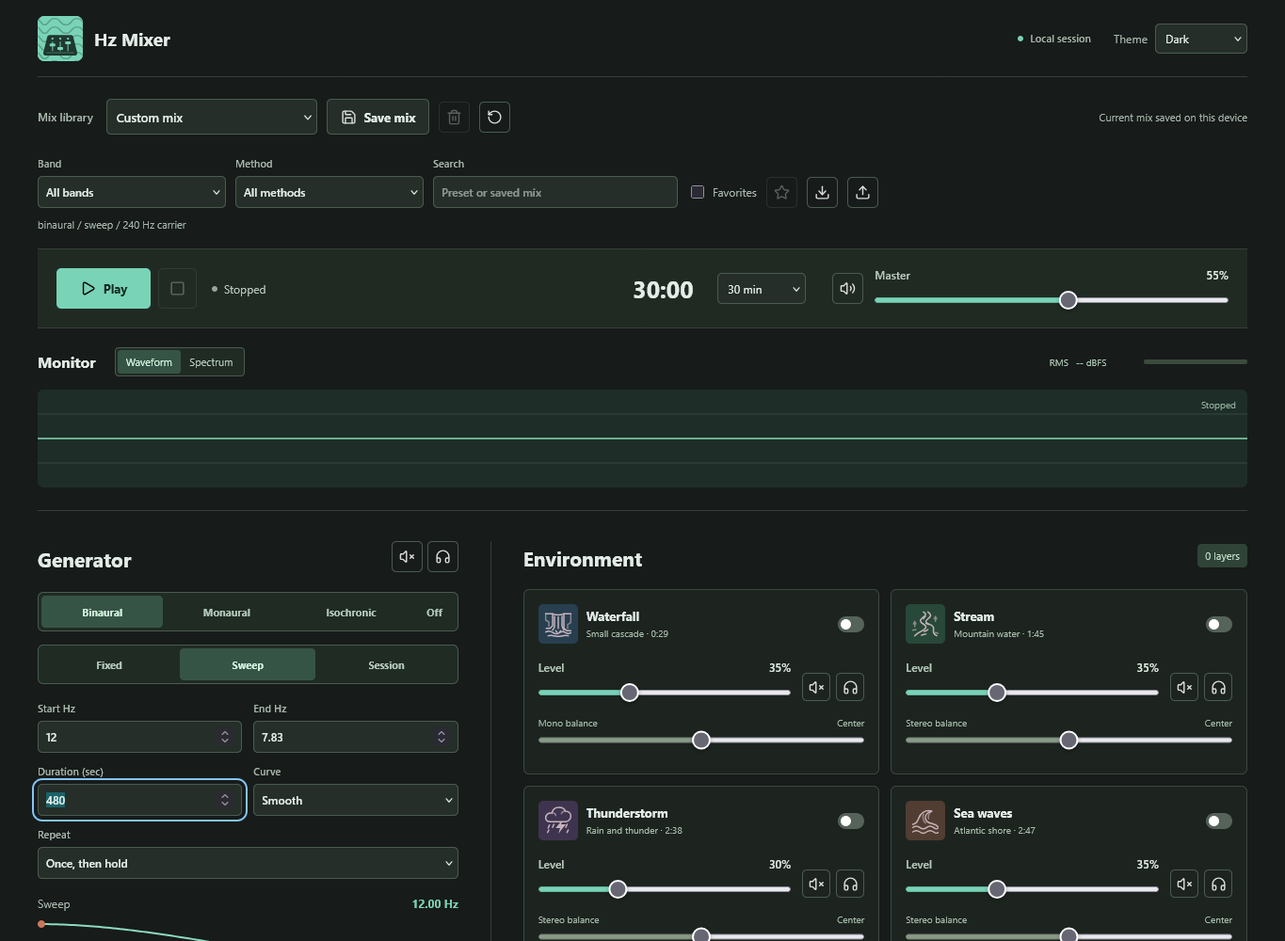
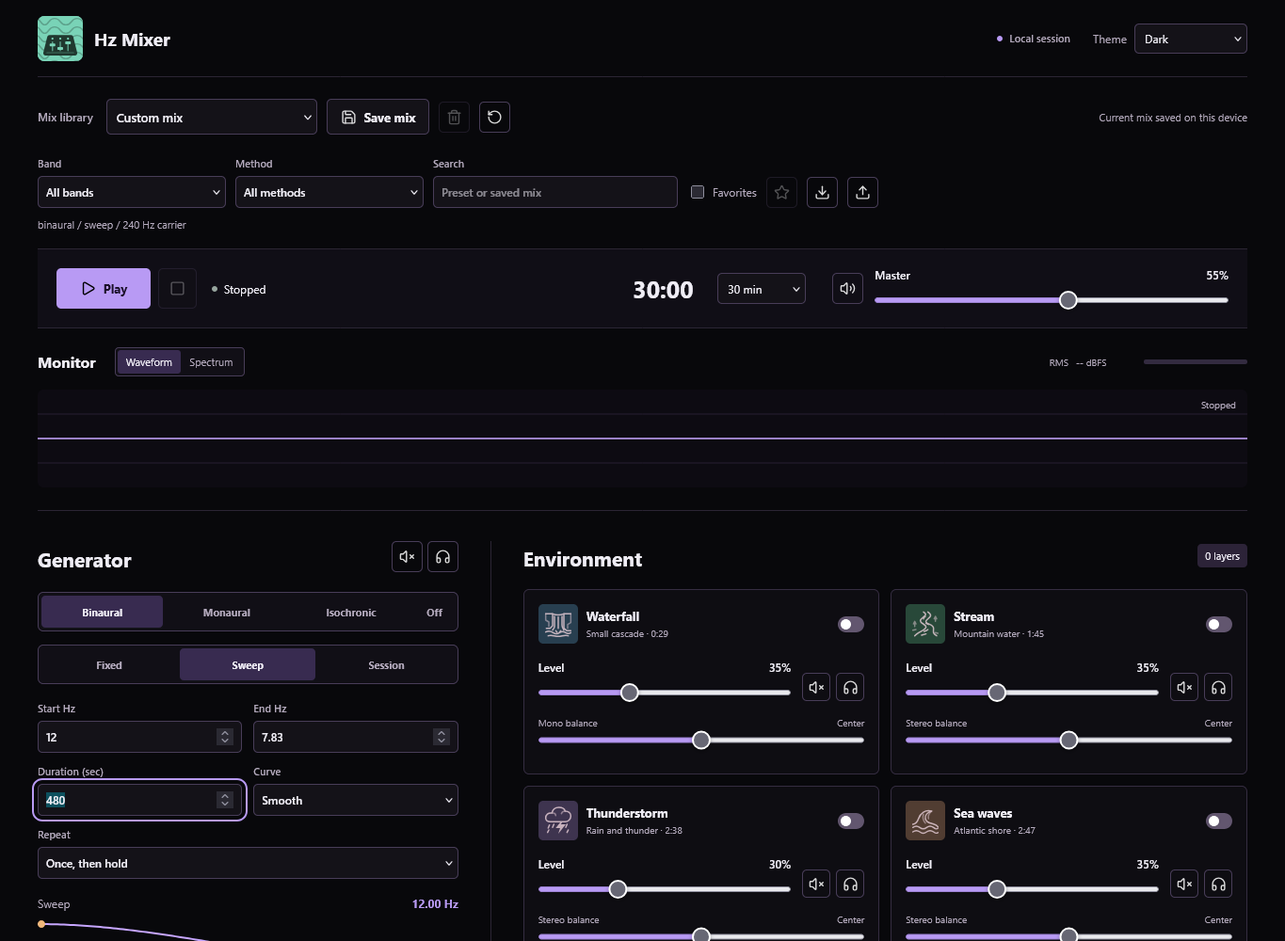
Add Dark, Cyberpunk and Matrix palettes while preserving Green

diff --git a/styles.css b/styles.css
@@ -1,4 +1,4 @@
-:root { color-scheme: light; font-family: "Segoe UI", Arial, sans-serif; background: #f5f7f6; color: #22302e; font-synthesis: none; --accent: #16766b; --line: #dce3df; --muted: #687771; }
+:root { color-scheme: light; font-family: "Segoe UI", Arial, sans-serif; background: #f5f7f6; color: #22302e; font-synthesis: none; --accent: #16766b; --line: #dce3df; --muted: #687771; --canvas-grid: #344b40; --canvas-wave: #81d7b2; --canvas-spectrum: #7bc5a5; --canvas-peak: #d6be89; --canvas-program: #16766b; --canvas-marker: #c8775b; }
 * { box-sizing: border-box; letter-spacing: 0; }
 [hidden] { display: none !important; }
 body { margin: 0; min-width: 0; }
@@ -19,7 +19,7 @@ a { color: #226d67; }
 .local-tag i { height: 6px; width: 6px; background: #548b6a; border-radius: 50%; }
 .topbar-actions { display: flex; align-items: center; gap: 24px; }
 .theme-field { display: flex; align-items: center; gap: 8px; color: var(--muted); font-size: 12px; }
-.theme-field select { width: 98px; height: 32px; font-size: 12px; }
+.theme-field select { width: 120px; height: 32px; font-size: 12px; }
 .library-bar { min-height: 84px; display: flex; align-items: center; gap: 10px; }
 .preset-field { display: flex; align-items: center; gap: 14px; }
 .preset-field > label { font-size: 12px; color: var(--muted); font-weight: 600; }
@@ -136,46 +136,98 @@ dialog p { color: #7b877d; font-size: 12px; min-height: 16px; }
 @media(max-width:1100px) { .app-shell { padding: 0 25px; }.transport-bar { gap: 18px; grid-template-columns: 1fr auto; }.master-control { grid-column: 1 / -1; max-width: 500px; width: 100%; }.workspace { grid-template-columns: minmax(270px,.8fr) minmax(0,1.2fr); gap: 25px; }.generator-panel { padding-right: 25px; }.sound-list { grid-template-columns: 1fr; }.sound-row { padding: 13px; }.pan-field { margin-top: 10px; }.storage-status { display: none; } }
 @media(max-width:720px) { .workspace { grid-template-columns: 1fr; gap: 26px; }.generator-panel { border-right: 0; border-bottom: 1px solid var(--line); padding: 0 0 26px; }.sound-list { grid-template-columns: repeat(2,minmax(0,1fr)); }.preset-field > label { display: none; }.preset-field { min-width: 0; flex: 1; }#mix-select { width: 100%; }.library-bar { gap: 6px; }.library-bar .button { padding: 8px 10px; }.level-meter { width: 70px; }.output-toolbar { gap: 10px; } }
 @media(max-width:480px) { .app-shell { padding: 0 18px; }.topbar { min-height: 72px; }.brand h1 { font-size: 17px; }.library-bar { min-height: 76px; flex-wrap: wrap; padding: 14px 0; }.preset-field { flex-basis: calc(100% - 90px); }.library-bar #save-mix { order: 1; width: 100%; }.transport-bar { padding: 15px 12px; gap: 18px; grid-template-columns: 1fr; }.transport { justify-content: start; }.transport-status { margin-left: auto; }.session-clock { justify-content: space-between; }.master-control { grid-column: auto; max-width: none; }.sound-list { grid-template-columns: 1fr; }.output-toolbar { flex-wrap: wrap; }.meter-group { margin-left: auto; }.level-meter { display: none; }footer { flex-direction: column; gap: 8px; line-height: 1.5; } }
-@media(max-width:480px) { .topbar-actions .local-tag { display: none; }.theme-field > span { position: absolute; width: 1px; height: 1px; overflow: hidden; clip: rect(0,0,0,0); }.theme-field select { width: 88px; } }
+@media(max-width:480px) { .topbar-actions .local-tag { display: none; }.theme-field > span { position: absolute; width: 1px; height: 1px; overflow: hidden; clip: rect(0,0,0,0); }.theme-field select { width: 110px; } }
 
-:root[data-theme="dark"] { color-scheme: dark; background: #171b1a; color: #e3ece6; --accent: #79d3b7; --line: #354039; --muted: #a8b8ad; }
-[data-theme="dark"] :focus-visible, [data-theme="dark"] .number-field:focus-within { outline-color: #82c5f5; }
-[data-theme="dark"] a { color: #97d1b8; }
-[data-theme="dark"] .local-tag i { background: #79d3b7; }
-[data-theme="dark"] select, [data-theme="dark"] input[type="text"], [data-theme="dark"] .secondary, [data-theme="dark"] .number-field, [data-theme="dark"] .sound-row, [data-theme="dark"] .stop-button { background: #252e28; color: #e3ece6; border-color: #4b5b50; }
-[data-theme="dark"] .primary { color: #132a20; }
-[data-theme="dark"] .primary:hover { background: #94e0c6; }
-[data-theme="dark"] .primary .icon, [data-theme="dark"] .brand-mark img { filter: none; }
-[data-theme="dark"] .icon-button { border-color: #4b5b50; }
-[data-theme="dark"] .icon-button img, [data-theme="dark"] .secondary img, [data-theme="dark"] .sound-icon img, [data-theme="dark"] .headphone-note img { filter: invert(1); opacity: .85; }
-[data-theme="dark"] .secondary:hover, [data-theme="dark"] .icon-button:hover:not(:disabled) { background: #34473b; }
-[data-theme="dark"] .icon-button[aria-pressed="true"] { background: #345346; border-color: #79b49b; }
-[data-theme="dark"] .icon-button.mute[aria-pressed="true"], [data-theme="dark"] #master-mute[aria-pressed="true"] { background: #563b35; border-color: #d29582; }
-[data-theme="dark"] .icon-button.solo[aria-pressed="true"] { background: #51452a; border-color: #cbb16a; }
-[data-theme="dark"] .transport-bar { background: #202a23; border-color: #354039; }
-[data-theme="dark"] .transport-status, [data-theme="dark"] .field > span, [data-theme="dark"] .field-heading > label { color: #b5c7b9; }
-[data-theme="dark"] .field output, [data-theme="dark"] .number-field input { color: #e0ebe3; }
-[data-theme="dark"] .number-field span, [data-theme="dark"] .range-labels, [data-theme="dark"] .eyebrow, [data-theme="dark"] .sound-title small, [data-theme="dark"] .pan-heading, [data-theme="dark"] .pan-heading button { color: #a6bbab; }
-[data-theme="dark"] .count-tag { background: #304337; color: #bddcc6; }
-[data-theme="dark"] .mode-control, [data-theme="dark"] .view-control { background: #202b24; border-color: #4b5b50; }
-[data-theme="dark"] .mode-control span, [data-theme="dark"] .view-control button { color: #b4c9bb; }
-[data-theme="dark"] .mode-control input:checked + span, [data-theme="dark"] .view-control button[aria-pressed="true"] { background: #365445; color: #d4f3df; }
-[data-theme="dark"] .sound-row.active { border-color: #739a81; }
-[data-theme="dark"] .sound-row.silenced { background: #1d241f; border-color: #3c4840; }
-[data-theme="dark"] .blue { background: #283f50; }
-[data-theme="dark"] .teal { background: #284839; }
-[data-theme="dark"] .violet { background: #3e344f; }
-[data-theme="dark"] .coral { background: #513d32; }
-[data-theme="dark"] .enable-toggle span { background: #56635a; }
-[data-theme="dark"] .enable-toggle input:checked + span { background: #4e9e7f; }
-[data-theme="dark"] .signal-detail, [data-theme="dark"] .headphone-note, [data-theme="dark"] .environment-footer, [data-theme="dark"] .meter-group, [data-theme="dark"] .meter-group output { color: #abc5b2; }
-[data-theme="dark"] .text-button { color: #ecd18d; }
-[data-theme="dark"] .track-state, [data-theme="dark"] #save-error { color: #f2aa95; }
-[data-theme="dark"] .level-meter { background: #3b4a3e; }
-[data-theme="dark"] .level-meter span { background: #91cfa6; }
-[data-theme="dark"] footer, [data-theme="dark"] footer a { color: #a8bcae; }
-[data-theme="dark"] dialog { background: #252e28; border-color: #597160; color: #e3ece6; }
-[data-theme="dark"] dialog p { color: #bacbbd; }
+:root[data-color-scheme="dark"] {
+  color-scheme: dark; background: var(--page); color: var(--text);
+  --page: #08080b; --text: #efedf5; --accent: #b89af4; --accent-hover: #ccb4ff; --primary-text: #1a1029;
+  --line: #2b2534; --muted: #b4aabd; --surface: #141218; --edge: #483d58; --hover: #251e30;
+  --selected: #382b50; --transport: #100e16; --quiet: #0e0d12; --quiet-line: #352d41; --tabs: #110f16;
+  --toggle: #62566f; --toggle-on: var(--accent); --tag: #2c2338; --meter: #332b40; --dialog-line: #655478;
+  --focus: var(--accent); --link: var(--accent); --selected-line: var(--accent); --active: #9073b5;
+  --label: var(--text); --value: var(--text); --detail: var(--muted); --tag-text: var(--text);
+  --tab-text: var(--muted); --tab-selected: var(--selected); --tab-value: var(--text); --signal: var(--muted);
+  --utility: #e1b8ef; --error: #f2aa95; --meter-fill: var(--accent); --footer: var(--muted); --dialog-text: var(--muted); --pan-accent: var(--accent); --playing: var(--accent);
+  --scope-bg: #0d0b12; --scope-label: #b4aabd; --canvas-grid: #282133; --canvas-wave: #c6a6ff;
+  --canvas-spectrum: #a98be4; --canvas-peak: #e8b4d8; --canvas-program: #c6a6ff; --canvas-marker: #f0b77a;
+}
+:root[data-theme="green"] {
+  --page: #171b1a; --text: #e3ece6; --accent: #79d3b7; --accent-hover: #94e0c6; --primary-text: #132a20;
+  --line: #354039; --muted: #a8b8ad; --surface: #252e28; --edge: #4b5b50; --hover: #34473b;
+  --selected: #345346; --selected-line: #79b49b; --transport: #202a23; --quiet: #1d241f; --quiet-line: #3c4840; --tabs: #202b24;
+  --toggle: #56635a; --toggle-on: #4e9e7f; --tag: #304337; --meter: #3b4a3e; --dialog-line: #597160;
+  --focus: #82c5f5; --link: #97d1b8; --active: #739a81; --label: #b5c7b9; --value: #e0ebe3; --detail: #a6bbab;
+  --tag-text: #bddcc6; --tab-text: #b4c9bb; --tab-selected: #365445; --tab-value: #d4f3df; --signal: #abc5b2;
+  --utility: #ecd18d; --meter-fill: #91cfa6; --footer: #a8bcae; --dialog-text: #bacbbd; --pan-accent: #8a9a89; --playing: #148568;
+  --scope-bg: #1e2d28; --scope-label: #92ad9e; --canvas-grid: #344b40; --canvas-wave: #81d7b2;
+  --canvas-spectrum: #7bc5a5; --canvas-peak: #d6be89; --canvas-program: #8cdbbf; --canvas-marker: #c8775b;
+}
+:root[data-theme="cyberpunk"] {
+  font-family: "Bahnschrift", "Segoe UI", Arial, sans-serif;
+  --page: #090a0e; --text: #e5eff6; --accent: #56e4ec; --accent-hover: #9af6fa; --primary-text: #07191c;
+  --line: #2c3645; --muted: #a7b4c8; --surface: #111820; --edge: #415268; --hover: #20283a;
+  --selected: #16343d; --transport: #10131d; --quiet: #0c1119; --quiet-line: #303c50; --tabs: #0e141e;
+  --toggle: #566379; --tag: #26333b; --meter: #273342; --dialog-line: #57718b; --active: #56b5be;
+  --utility: #f6ef61; --focus: #f6ef61; --scope-bg: #080d15; --scope-label: #99bfce;
+  --canvas-grid: #23384a; --canvas-wave: #56e4ec; --canvas-spectrum: #56e4ec; --canvas-peak: #f6ef61;
+  --canvas-program: #56e4ec; --canvas-marker: #ff67b7;
+}
+:root[data-theme="matrix"] {
+  font-family: "Consolas", "Liberation Mono", monospace;
+  --page: #030705; --text: #c0edc8; --accent: #72ed8e; --accent-hover: #a4ffb8; --primary-text: #05200d;
+  --line: #203d28; --muted: #94b59b; --surface: #0b140e; --edge: #315b3c; --hover: #14291b;
+  --selected: #183822; --transport: #08130c; --quiet: #07100a; --quiet-line: #24452e; --tabs: #07110b;
+  --toggle: #42664c; --tag: #173321; --meter: #1a3623; --dialog-line: #3f7950; --active: #4ca962;
+  --utility: #b5e9a3; --scope-bg: #020805; --scope-label: #87b894; --canvas-grid: #173820;
+  --canvas-wave: #72ed8e; --canvas-spectrum: #50d578; --canvas-peak: #c5f7a0; --canvas-program: #72ed8e; --canvas-marker: #d5f2ac;
+}
+[data-color-scheme="dark"] :focus-visible, [data-color-scheme="dark"] .number-field:focus-within { outline-color: var(--focus); }
+[data-color-scheme="dark"] a { color: var(--link); }
+[data-color-scheme="dark"] .local-tag i { background: var(--accent); }
+[data-color-scheme="dark"] .status-dot.playing { background: var(--playing); }
+[data-color-scheme="dark"] .pan-field input { accent-color: var(--pan-accent); }
+[data-color-scheme="dark"] select, [data-color-scheme="dark"] input[type="text"], [data-color-scheme="dark"] .secondary, [data-color-scheme="dark"] .number-field, [data-color-scheme="dark"] .sound-row, [data-color-scheme="dark"] .stop-button { background: var(--surface); color: var(--text); border-color: var(--edge); }
+[data-color-scheme="dark"] .primary { color: var(--primary-text); }
+[data-color-scheme="dark"] .primary:hover { background: var(--accent-hover); }
+[data-color-scheme="dark"] .primary .icon, [data-color-scheme="dark"] .brand-mark img { filter: none; }
+[data-color-scheme="dark"] .icon-button { border-color: var(--edge); }
+[data-color-scheme="dark"] .icon-button img, [data-color-scheme="dark"] .secondary img, [data-color-scheme="dark"] .sound-icon img, [data-color-scheme="dark"] .headphone-note img { filter: invert(1); opacity: .85; }
+[data-color-scheme="dark"] .secondary:hover, [data-color-scheme="dark"] .icon-button:hover:not(:disabled) { background: var(--hover); }
+[data-color-scheme="dark"] .icon-button[aria-pressed="true"] { background: var(--selected); border-color: var(--selected-line); }
+[data-color-scheme="dark"] .icon-button.mute[aria-pressed="true"], [data-color-scheme="dark"] #master-mute[aria-pressed="true"] { background: #563b35; border-color: #d29582; }
+[data-color-scheme="dark"] .icon-button.solo[aria-pressed="true"] { background: #51452a; border-color: #cbb16a; }
+[data-color-scheme="dark"] .transport-bar { background: var(--transport); border-color: var(--line); }
+[data-color-scheme="dark"] .transport-status, [data-color-scheme="dark"] .field > span, [data-color-scheme="dark"] .field-heading > label { color: var(--label); }
+[data-color-scheme="dark"] .field output, [data-color-scheme="dark"] .number-field input { color: var(--value); }
+[data-color-scheme="dark"] .number-field span, [data-color-scheme="dark"] .range-labels, [data-color-scheme="dark"] .eyebrow, [data-color-scheme="dark"] .sound-title small, [data-color-scheme="dark"] .pan-heading, [data-color-scheme="dark"] .pan-heading button { color: var(--detail); }
+[data-color-scheme="dark"] .count-tag { background: var(--tag); color: var(--tag-text); }
+[data-color-scheme="dark"] .mode-control, [data-color-scheme="dark"] .view-control { background: var(--tabs); border-color: var(--edge); }
+[data-color-scheme="dark"] .mode-control span, [data-color-scheme="dark"] .view-control button { color: var(--tab-text); }
+[data-color-scheme="dark"] .mode-control input:checked + span, [data-color-scheme="dark"] .view-control button[aria-pressed="true"] { background: var(--tab-selected); color: var(--tab-value); }
+[data-color-scheme="dark"] .sound-row.active { border-color: var(--active); }
+[data-color-scheme="dark"] .sound-row.silenced { background: var(--quiet); border-color: var(--quiet-line); }
+[data-color-scheme="dark"] .blue { background: #283f50; }
+[data-color-scheme="dark"] .teal { background: #284839; }
+[data-color-scheme="dark"] .violet { background: #3e344f; }
+[data-color-scheme="dark"] .coral { background: #513d32; }
+[data-color-scheme="dark"] .enable-toggle span { background: var(--toggle); }
+[data-color-scheme="dark"] .enable-toggle input:checked + span { background: var(--toggle-on); }
+[data-color-scheme="dark"] .signal-detail, [data-color-scheme="dark"] .headphone-note, [data-color-scheme="dark"] .environment-footer, [data-color-scheme="dark"] .meter-group, [data-color-scheme="dark"] .meter-group output { color: var(--signal); }
+[data-color-scheme="dark"] .text-button { color: var(--utility); }
+[data-color-scheme="dark"] .track-state, [data-color-scheme="dark"] #save-error { color: var(--error); }
+[data-color-scheme="dark"] .level-meter { background: var(--meter); }
+[data-color-scheme="dark"] .level-meter span { background: var(--meter-fill); }
+[data-color-scheme="dark"] footer, [data-color-scheme="dark"] footer a { color: var(--footer); }
+[data-color-scheme="dark"] dialog { background: var(--surface); border-color: var(--dialog-line); color: var(--text); }
+[data-color-scheme="dark"] dialog p { color: var(--dialog-text); }
+[data-color-scheme="dark"] .scope { background: var(--scope-bg); }
+[data-color-scheme="dark"] #scope-state { color: var(--scope-label); }
+[data-theme="cyberpunk"] .brand h1 { color: #f6ef61; }
+[data-theme="cyberpunk"] .transport-bar { border-top-color: #56e4ec; border-bottom-color: #714160; }
+[data-theme="cyberpunk"] .button, [data-theme="cyberpunk"] .icon-button, [data-theme="cyberpunk"] .mode-control, [data-theme="cyberpunk"] .sound-row { border-radius: 3px; }
+[data-theme="matrix"] .brand h1 { color: var(--accent); }
+[data-theme="matrix"] .scope { background-image: repeating-linear-gradient(0deg, transparent 0 3px, #72ed8e08 3px 4px); }
+[data-theme="matrix"] .button, [data-theme="matrix"] .icon-button, [data-theme="matrix"] .mode-control, [data-theme="matrix"] .sound-row { border-radius: 2px; }
 
 .catalog-controls { display: flex; align-items: end; flex-wrap: wrap; gap: 10px; padding: 0 0 18px; }
 .compact-field { display: grid; gap: 6px; min-width: 0; color: var(--muted); font-size: 11px; font-weight: 600; }
@@ -207,8 +259,8 @@ progress::-moz-progress-bar { background: var(--accent); }
 .noise-list .sound-icon img { width: 26px; height: 26px; }
 .sound-icon.pink { background: #f6e2eb; }
 .sound-icon.brown { background: #f1e6da; }
-[data-theme="dark"] .sound-icon.pink { background: #30232a; }
-[data-theme="dark"] .sound-icon.brown { background: #28211b; }
+[data-color-scheme="dark"] .sound-icon.pink { background: #30232a; }
+[data-color-scheme="dark"] .sound-icon.brown { background: #28211b; }
 .noise-list .sound-icon.pink img, .noise-list .sound-icon.brown img { filter: none; opacity: 1; }
 .noise-list .channel-strip { grid-template-columns: 1fr; gap: 8px; }
 .noise-list .channel-tools { justify-content: end; }
@@ -226,8 +278,8 @@ progress::-moz-progress-bar { background: var(--accent); }
 #export-dialog, #import-dialog { width: min(500px, calc(100% - 32px)); max-height: 90vh; overflow: auto; }
 #import-preview { max-height: 180px; overflow: auto; padding-left: 20px; font-size: 12px; line-height: 1.7; }
 #import-current-field { margin-top: 14px; }
-[data-theme="dark"] .compact-field input, [data-theme="dark"] .compact-field select { color: #e3ece6; background: #252e28; border-color: #4b5b50; }
-[data-theme="dark"] .error { color: #f2aa95; }
+[data-color-scheme="dark"] .compact-field input, [data-color-scheme="dark"] .compact-field select { color: var(--text); background: var(--surface); border-color: var(--edge); }
+[data-color-scheme="dark"] .error { color: var(--error); }
 @media(max-width:1100px) { .noise-list { grid-template-columns: 1fr; }.noise-list .sound-icon { display: grid; }.noise-list .channel-strip { grid-template-columns: minmax(0, 1fr) 66px; }.stage-row { gap: 8px; grid-template-columns: 18px repeat(3, minmax(0, 1fr)); }.stage-row .stage-actions { grid-column: 4; justify-content: end; } }
 @media(max-width:720px) { .stage-row { grid-template-columns: 18px repeat(2, minmax(0, 1fr)); }.stage-number { grid-row: 1 / 4; }.stage-row .stage-actions { grid-column: 2 / -1; justify-content: end; }.noise-list { grid-template-columns: 1fr; }.catalog-controls .compact-field { max-width: none; min-width: 105px; }.catalog-controls .search-field { flex-basis: 100%; } }
 @media(max-width:480px) { dialog { padding: 20px; }.export-tabs button { font-size: 11px; }.catalog-controls { gap: 8px; } }

diff --git a/src/app.js b/src/app.js
@@ -11,7 +11,7 @@ $('#privacy-open').addEventListener('click', () => $('#privacy-dialog').showModa
 // Preserve legacy keys when upgrading on the same browser origin.
 const CURRENT_KEY = 'beat-mixer.current.v1';
 const LIBRARY_KEY = 'beat-mixer.library.v1';
-const THEME_KEY = 'beat-mixer.theme.v1';
+const THEME_KEY = 'hz-mixer.theme.v2';
 const FAVORITES_KEY = 'beat-mixer.favorites.v1';
 const allLayers = [...SOUNDS, ...NOISES];
 const layerConfig = (id) => mix.sounds[id] || mix.noise[id];
@@ -29,6 +29,7 @@ let suggestedName = typeof restored?.name === 'string' ? restored.name.slice(0, 
 let view = restored?.view === 'spectrum' ? 'spectrum' : 'waveform';
 let themePreference = document.documentElement.dataset.themePreference || 'system';
 const themeMedia = window.matchMedia('(prefers-color-scheme: dark)');
+let canvasTheme = {};
 let favorites = new Set(Array.isArray(readStorage(FAVORITES_KEY)) ? readStorage(FAVORITES_KEY).filter((id) => PRESETS.some((p) => 'preset:' + p.id === id)) : []);
 let sessionState = 'Ready';
 let busy = false;
@@ -57,10 +58,9 @@ const frequencyFields = [
 
 function notify(message) { $('#storage-status').textContent = message; }
 function applyTheme() {
-  const dark = themePreference === 'dark' || (themePreference === 'system' && themeMedia.matches);
-  document.documentElement.dataset.theme = dark ? 'dark' : 'light';
-  document.documentElement.dataset.themePreference = themePreference;
-  $('meta[name="theme-color"]').content = dark ? '#171b1a' : '#f5f7f6';
+  themePreference = window.hzMixerTheme.apply(themePreference, themeMedia.matches);
+  const styles = getComputedStyle(document.documentElement);
+  canvasTheme = Object.fromEntries(['grid', 'wave', 'spectrum', 'peak', 'program', 'marker'].map((name) => [name, styles.getPropertyValue('--canvas-' + name).trim()]));
   $('#theme-mode').value = themePreference;
   drawProgram();
 }
@@ -398,10 +398,10 @@ function drawProgram() {
   const rates = Array.from({ length: 129 }, (_, i) => programAt(mix, i / 128 * length).rate);
   const low = Math.min(...rates), range = Math.max(1, Math.max(...rates) - low);
   const y = (rate) => 66 - (rate - low) / range * 52;
-  drawing.strokeStyle = document.documentElement.dataset.theme === 'dark' ? '#8cdbbf' : '#16766b'; drawing.lineWidth = 2;
+  drawing.strokeStyle = canvasTheme.program; drawing.lineWidth = 2;
   drawing.beginPath(); rates.forEach((rate, i) => i ? drawing.lineTo(i / 128 * width, y(rate)) : drawing.moveTo(0, y(rate))); drawing.stroke();
   const position = mix.automation.kind === 'sweep' && mix.automation.sweep.repeat === 'pingpong' ? elapsed % length : Math.min(elapsed, length);
-  drawing.fillStyle = '#c8775b'; drawing.beginPath(); drawing.arc(position / length * (width - 8) + 4, y(current.rate), 4, 0, Math.PI * 2); drawing.fill();
+  drawing.fillStyle = canvasTheme.marker; drawing.beginPath(); drawing.arc(position / length * (width - 8) + 4, y(current.rate), 4, 0, Math.PI * 2); drawing.fill();
   const left = (mix.carrier - current.rate / 2).toFixed(3), right = (mix.carrier + current.rate / 2).toFixed(3);
   $('#signal-detail').textContent = mix.mode === 'off' ? 'Generator off' : mix.mode === 'isochronic' ? mix.carrier + ' Hz tone / ' + current.rate.toFixed(2) + ' pulses/second' : mix.mode === 'binaural' ? 'Left ' + left + ' Hz / Right ' + right + ' Hz' : left + ' + ' + right + ' Hz mixed to both ears';
 }
@@ -559,7 +559,7 @@ function drawScope(timestamp) {
   if (width < 1 || height < 1) return;
   if (canvas.width !== width || canvas.height !== height) { canvas.width = width; canvas.height = height; }
   scope.clearRect(0, 0, width, height);
-  scope.strokeStyle = '#344b40';
+  scope.strokeStyle = canvasTheme.grid;
   scope.lineWidth = 1;
   for (let i = 1; i < 4; i += 1) {
     scope.beginPath(); scope.moveTo(0, height * i / 4); scope.lineTo(width, height * i / 4); scope.stroke();
@@ -579,11 +579,11 @@ function drawScope(timestamp) {
       const frequency = 30 * Math.pow(400, i / count);
       const bin = Math.min(spectrum.length - 1, Math.round(frequency * 2048 / rate));
       const barHeight = spectrum[bin] / 255 * height * .84;
-      scope.fillStyle = i < count * .65 ? '#7bc5a5' : '#d6be89';
+      scope.fillStyle = i < count * .65 ? canvasTheme.spectrum : canvasTheme.peak;
       scope.fillRect(i * width / count, height - barHeight, Math.max(1, width / count - 3 * ratio), Math.max(1, barHeight));
     }
   } else {
-    scope.beginPath(); scope.strokeStyle = '#81d7b2'; scope.lineWidth = 1.5 * ratio;
+    scope.beginPath(); scope.strokeStyle = canvasTheme.wave; scope.lineWidth = 1.5 * ratio;
     waveform.forEach((value, i) => {
       const x = i / (waveform.length - 1) * width;
       const y = height / 2 - value * height * .9;

diff --git a/index.html b/index.html
@@ -10,15 +10,27 @@
   <title>Hz Mixer</title>
   <script id="theme-bootstrap">
     (() => {
+      const colors = { light: '#f5f7f6', green: '#171b1a', dark: '#08080b', cyberpunk: '#090a0e', matrix: '#030705' };
+      const apply = (preference, systemDark) => {
+        if (typeof preference !== 'string' || (preference !== 'system' && !Object.hasOwn(colors, preference))) preference = 'system';
+        const theme = preference === 'system' ? (systemDark ? 'dark' : 'light') : preference;
+        document.documentElement.dataset.themePreference = preference;
+        document.documentElement.dataset.theme = theme;
+        document.documentElement.dataset.colorScheme = theme === 'light' ? 'light' : 'dark';
+        document.querySelector('meta[name="theme-color"]').content = colors[theme];
+        return preference;
+      };
+      window.hzMixerTheme = Object.freeze({ apply });
       let preference = 'system';
       try {
-        const stored = JSON.parse(localStorage.getItem('beat-mixer.theme.v1'));
-        if (['system', 'light', 'dark'].includes(stored)) preference = stored;
+        const current = localStorage.getItem('hz-mixer.theme.v2');
+        if (current !== null) preference = JSON.parse(current);
+        else {
+          const legacy = JSON.parse(localStorage.getItem('beat-mixer.theme.v1'));
+          if (['system', 'light', 'dark'].includes(legacy)) preference = legacy === 'dark' ? 'green' : legacy;
+        }
       } catch { /* Follow the system if browser storage is unavailable. */ }
-      const dark = preference === 'dark' || (preference === 'system' && window.matchMedia('(prefers-color-scheme: dark)').matches);
-      document.documentElement.dataset.themePreference = preference;
-      document.documentElement.dataset.theme = dark ? 'dark' : 'light';
-      document.querySelector('meta[name="theme-color"]').content = dark ? '#171b1a' : '#f5f7f6';
+      apply(preference, window.matchMedia('(prefers-color-scheme: dark)').matches);
     })();
   </script>
   <link rel="icon" href="./assets/icons/mixer-waves.svg" />
@@ -28,7 +40,7 @@
   <div class="app-shell">
     <header class="topbar">
       <div class="brand"><span class="brand-mark"><img src="./assets/icons/mixer-waves.svg" alt="" /></span><h1>Hz Mixer</h1></div>
-      <div class="topbar-actions"><span class="local-tag"><i></i> Local session</span><label class="theme-field" for="theme-mode"><span>Theme</span><select id="theme-mode"><option value="system">System</option><option value="light">Light</option><option value="dark">Dark</option></select></label></div>
+      <div class="topbar-actions"><span class="local-tag"><i></i> Local session</span><label class="theme-field" for="theme-mode"><span>Theme</span><select id="theme-mode"><option value="system">System</option><option value="light">Light</option><option value="green">Green</option><option value="dark">Dark</option><option value="cyberpunk">Cyberpunk</option><option value="matrix">Matrix</option></select></label></div>
     </header>
     <main>
       <section class="library-bar" aria-label="Mix library">

diff --git a/docs/mixer-guide.md b/docs/mixer-guide.md
@@ -25,7 +25,13 @@ The four [recordings](../assets/audio/SOURCES.md) use derived crossfaded loops; 
 
 Search/filter the 37 presets, favorite them, or save up to 30 named mixes. Saving an existing name updates that mix. JSON mix exports contain the current settings; library backups include saved mixes, current settings and preset favorites. Import previews contents before merge/replace; it does not change the current audio. Theme is separate from audio backups.
 
-Storage belongs to the browser and origin/file location. Export a Library backup before changing browsers, moving a portable file or switching between the website and offline version. Legacy Beat Mixer JSON files and storage keys remain supported. See [privacy](privacy.md).
+Storage belongs to the browser and origin/file location. Export a Library backup before changing browsers, moving a portable file or switching between the website and offline version. Legacy Beat Mixer JSON files and mix storage keys remain supported. See [privacy](privacy.md).
+
+## Appearance
+
+Choose System, Light, Green, Dark, Cyberpunk or Matrix in the header. Green retains the original dark-green palette. Dark uses a near-black background and purple shades; Cyberpunk uses cyan/yellow/magenta accents; Matrix uses black/green and terminal typography. Monitor colors follow each palette. None adds flashing or animated background effects.
+
+System follows the device's light/dark preference and uses the new Dark palette at night. A saved selection of the old Dark theme migrates to Green, preserving that explicit choice. Theme preferences use a separate versioned key and do not change audio, saved mixes or JSON backups. Pink/brown noise icons retain their identifying colors in every theme.
 
 ## Audio Export
 

diff --git a/CHANGELOG.md b/CHANGELOG.md
@@ -12,7 +12,7 @@ Initial Hz Mixer release, rebranded from the local Beat Mixer prototype.
 - Layer level/mute/solo/balance, fades, pulse shaping and waveform/spectrum monitoring.
 - Named mix storage, JSON export/import/backup and stereo WAV/MP3 rendering with progress/cancel and optional direct-to-file saving.
 - MP3 bitrate selection (128, 192, 256, 320 kbps) at 44.1/48 kHz, using a separately replaceable LGPL-3.0 encoder with full licences and exact upstream source.
-- Dark/light/system themes and responsive controls.
+- Light, Green, black/purple Dark, Cyberpunk and Matrix themes, plus System and responsive controls. Previous explicit Dark selections migrate to Green; appearance changes do not alter audio settings.
 - Pink and brown noise wave icons use matching colors in both themes and remain visible in the desktop noise mixer.
 - Simplified Hz Mixer header, an original mixer-and-waves mark and literal environment artwork, and a monitor-first layout with unnumbered Generator and Environment headings.
 - Locked development tooling, automated checks and reproducible, checksummed release packaging.

diff --git a/docs/releases/v0.1.0.md b/docs/releases/v0.1.0.md
@@ -7,7 +7,7 @@ Initial release candidate. Not yet published.
 - Binaural, monaural, isochronic and nature-only mixing, with 0.01 Hz beat precision and 20-2000 Hz carriers.
 - 37 presets, favorites and filters; fixed rates, sweeps and up to 16 session stages.
 - Four CC0 recordings, three synthesized noise colors, per-layer level/mute/solo/balance and fades.
-- Light/dark/system themes, full-width monitor and original mixer/environment artwork.
+- Light, Green, black/purple Dark, Cyberpunk, Matrix and System themes, full-width theme-aware monitor and original mixer/environment artwork. Previous saved Dark selections migrate to Green.
 - Browser-local libraries with JSON backup/import.
 - Stereo WAV and MP3 export at 44.1/48 kHz; MP3 128-320 kbps, progress/cancel and optional direct-to-file saving.
 - Static web distribution with lazy-loaded audio/encoder, plus optional self-contained offline HTML/ZIP.

diff --git a/README.md b/README.md
@@ -18,7 +18,7 @@ Once published, open the website in a modern browser and press Play. Recordings 
 - Fixed rates, linear/smooth sweeps, once/hold or ping-pong, and up to 16 hold/sweep session stages.
 - Four field recordings plus white, pink and brown noise; independent level, mute, solo and balance.
 - Fade-in/out, crossfaded recording loops, and isochronic width, softness and depth.
-- System/light/dark themes, waveform/spectrum monitor, session progress and digital RMS meter.
+- Light, Green, black/purple Dark, Cyberpunk and Matrix themes, plus System; waveform/spectrum monitor, session progress and digital RMS meter.
 - Up to 30 named mixes and JSON mix/library backup with previewed import.
 - Stereo WAV (16-bit PCM) and MP3 (128/192/256/320 kbps), at 44.1 or 48 kHz, with progress/cancellation and optional direct-to-file saving.
 
